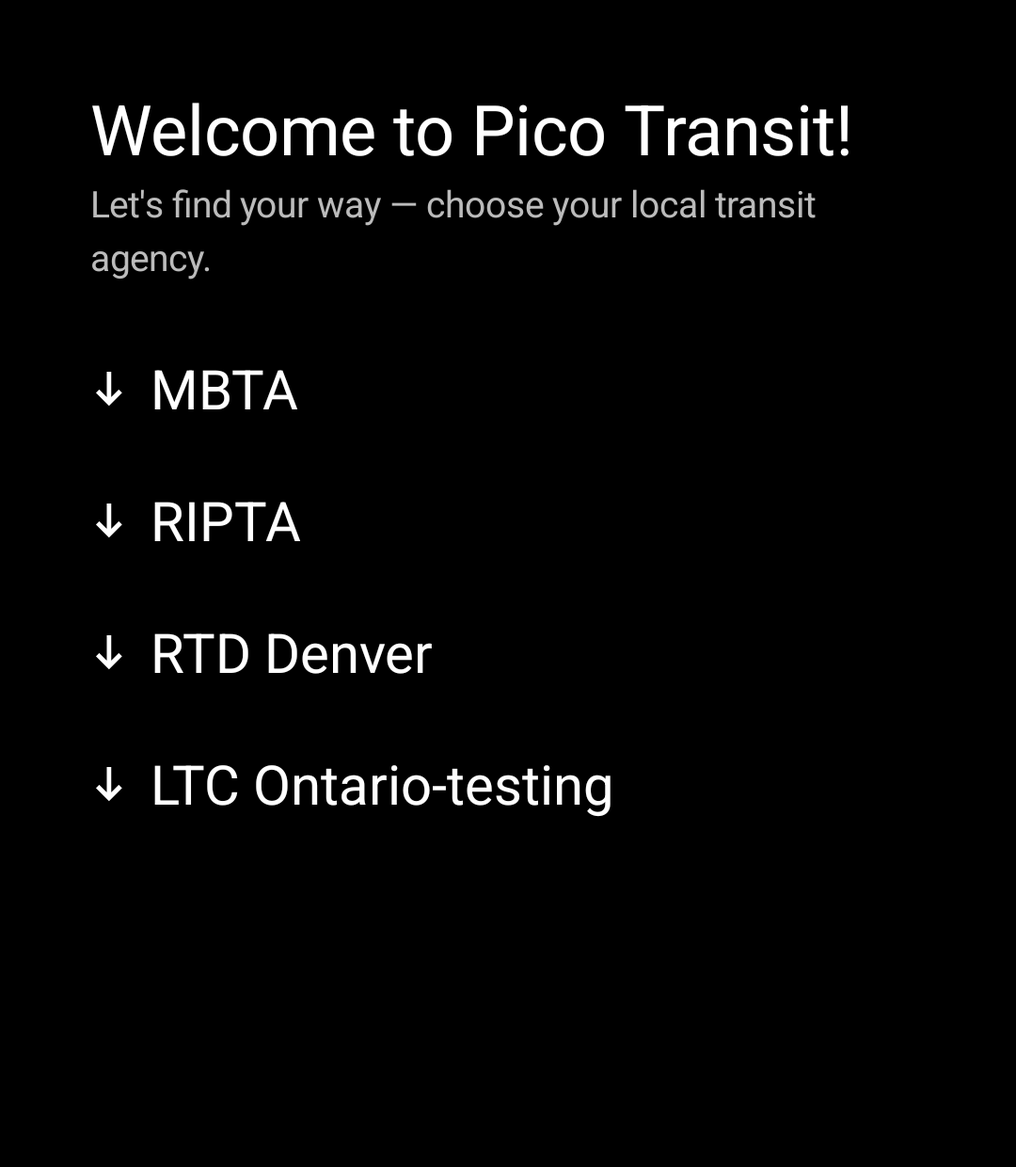
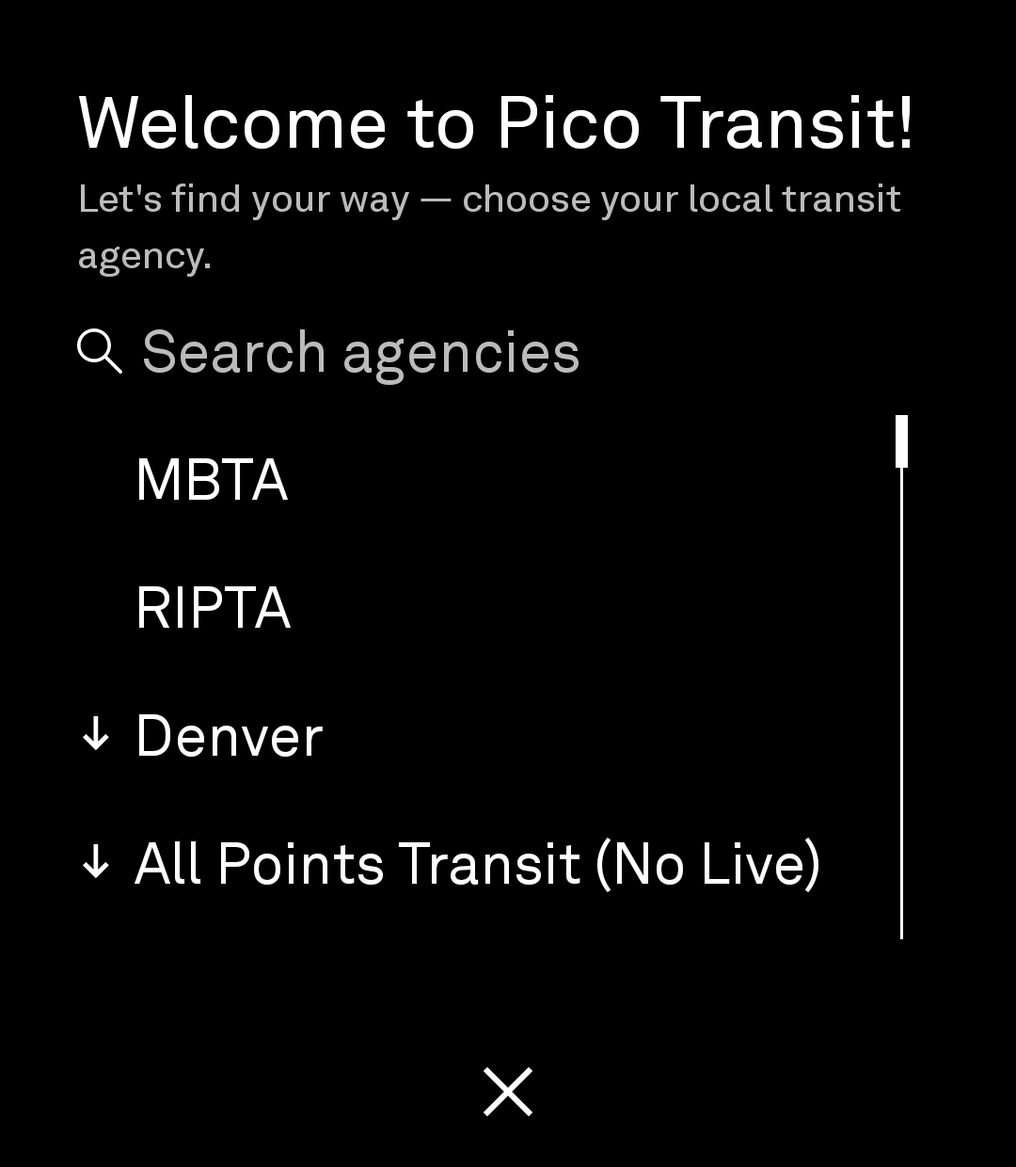
Docs: Puget Sound (110 agencies total) and Explore's GPS status
Updates both READMEs and RELEASE_NOTES.md for the Puget Sound addition and
the GPS-based Explore redesign (marked Testing pending LightOS's production
location trust). Also refreshes several screenshots that had gone stale:
agency picker (now shows live search, not the old 4-agency list), home screen
(STM Montréal instead of another MBTA shot), Settings (new Location section,
indented Transit Agency sub-rows), and Explore itself. Adds 3 new screenshots
(cta.png, union_station.png, unionstation_arrivals.png) to the Merge feed
stations and Home screen trip status sections.

diff --git a/README.md b/README.md
@@ -2,18 +2,22 @@
 
 Pico Transit is a friendly little companion for getting around on public transit. Real schedules, real-time arrivals, live connections at any stop, and a live map that shows exactly where your ride actually is — no ads, no clutter, no infinite scroll. Just "where's my bus," answered nicely. 🚏✨
 
-Right now Pico Transit tracks real-time arrivals for **MBTA**, **RIPTA**, **RTD Denver** (plus Bustang, the state's intercity coach service), **LTC Ontario** (London, Ontario), **STM Montréal**, **CTA**, **NYC Subway**, **LIRR**, **Metro-North**, all 5 NYC bus boroughs plus MTA Bus Company, **Nashville's WeGo Public Transit**, and around 50 SF Bay Area operators (BART, Muni, AC Transit, Caltrain, VTA, and dozens more via 511.org's regional feed, buses/subway/rail/ferry alike) — plus static schedules for **~45 more agencies** with no live tracking yet (about 40 more across Colorado, plus Metra, Pace, and LA Metro). More hopefully hopping aboard down the road. It's built on the [Light SDK](../) for the Light Phone III, so it stays just as calm and un-distracting as the rest of your Light experience.
+Right now Pico Transit tracks real-time arrivals for **MBTA**, **RIPTA**, **RTD Denver** (plus Bustang, the state's intercity coach service), **LTC Ontario** (London, Ontario), **STM Montréal**, **CTA**, **NYC Subway**, **LIRR**, **Metro-North**, all 5 NYC bus boroughs plus MTA Bus Company, **Nashville's WeGo Public Transit**, and around 50 SF Bay Area operators (BART, Muni, AC Transit, Caltrain, VTA, and dozens more via 511.org's regional feed, buses/subway/rail/ferry alike) — **110 agencies in total**, the rest (about 40 across Colorado, 9 across the Puget Sound region, plus Metra, Pace, and LA Metro) with static schedules only, no live tracking yet. More hopefully hopping aboard down the road. It's built on the [Light SDK](../) for the Light Phone III, so it stays just as calm and un-distracting as the rest of your Light experience.
 
 Pico Transit can be used alongside the light phone's directions tool for more context on your commutes, or standalone, covering buses, commuter rail, subway systems, ferries, and transit stations.
 
 ## 🔄 Recent updates
 
+- 🌲 **9 Puget Sound agencies** — static schedules for King County Metro, Sound Transit, Pierce Transit, Community Transit, Kitsap Transit, Intercity Transit, Everett Transit, Washington State Ferries, and the Seattle Center Monorail. Not yet integrated with live tracking, so these are schedule-only for now.
 - 🐛 **Fixed live vehicle tracking drifting or freezing on agencies with gappier feeds** (confirmed live on RIPTA) — when a live feed gives raw GPS but never says which stop a bus is at directly, Pico Transit has to work that out itself; that could pick the wrong stop off a stale signal, let the home screen and Trip Detail disagree with each other about where the bus was, or freeze in place for several minutes once real GPS updates came in more slowly than stops passed by. Home and Trip Detail now share one tracked position and validate that signal against real GPS before trusting it — a fix for any agency in this situation, not just RIPTA. RIPTA specifically also gets a beta feature on top: matching a vehicle's actual GPS against its route's real path instead of just checking distance to each stop one at a time, catching up correctly even when several stops pass between updates.
 - 🎶 **Nashville's WeGo Public Transit, live** — added in honor of Dolly Parton ("And I Will Always Love You"), Music City's own agency joins with full live tracking from day one: real-time arrivals and vehicles right on the map, not just a static schedule.
 - 🚌 **NYC Bus, live** — all 5 boroughs (Bronx, Brooklyn, Manhattan, Queens, Staten Island) plus MTA Bus Company, each its own selectable schedule, all sharing MTA's one combined live feed so real buses show up on the map and in Trip Detail regardless of which borough you picked. Also fixed along the way: "Choose Route" was listing every one of NYC's 306 citywide bus routes for every borough (MTA republishes the same route catalog in all 5 division feeds) — now scoped to only the routes that borough actually runs.
 - 🚇 **NYC Subway, genuinely live** — not an approximation: subway trip_ids pack their own scheduled start time in MTA's encoding, which Pico Transit now decodes and matches back to the real scheduled trip, the same certainty LIRR/Metro-North already had. Fixed along the way: that decoding was only ever being applied to 7 of the 8 line-group feeds, so A/C/E trains never showed live data at all until now. Also faster — all 8 feeds are now merged into one request server-side, instead of the app fetching all 8 itself on every poll.
 - 🏔 **~40 more Colorado agencies** — static schedules for the rest of the state's transit systems listed alongside RTD Denver and Bustang, from Vail Transit to Durango Transit to a handful of GTFS-Flex demand-response services. Not yet integrated with live tracking, so these are schedule-only for now.
 - 🚉 **Merge feed stations** — for any agency that merges a second real GTFS feed into its own, a physically co-located station now shows up once instead of once per feed. RTD Denver's Union Station and Bustang's own gates there are the clearest example — LA Metro's own bus/rail split gets the same treatment.
+
+  ![alt text](docs/screenshots/union_station.png)
+  ![alt text](docs/screenshots/unionstation_arrivals.png)
 - 🗂 **Multiple schedules at once, by region** — three regions now group their agencies together for downloading: **New York City** (NYC Subway, LIRR, Metro-North, and all 6 NYC bus divisions), **Denver** (RTD + Bustang), and the **SF Bay Area** (all 40+ 511-integrated agencies). Pick your primary agency as always; once it's part of one of these regions, Settings' new "Additional Schedules" row lets you toggle on any other schedule in that same region to browse alongside it — tap-and-hold one there to make it your new primary instead, or just board a trip from it directly. The home screen's Schedule button now offers a quick "Choose Schedule" picker whenever more than one of a region's schedules is downloaded, skipping straight to the usual route list when there's only one. Pico Transit's overall agency list keeps growing (see the intro above), so expect these three regions' own rosters — and hopefully new regions entirely — to keep growing too.
 - 🚉 **Stations list opens straight to arrivals now** — tapping a station in the Stations list used to always open its platform map; now it jumps straight to that station's live upcoming arrivals instead (the map's still one tap away from there). Tap-and-hold does the opposite, opening the platform map. On by default, and scoped to the Stations list only — nothing else changes. The Map screen's own top bar now also reminds you what double-tap and tap-and-hold do there, but only for whichever of those two gestures you actually have on in Settings.
 - 🚋 **Select Run, for CTA 'L' trains and MBTA Green Line** — both show up on Trip Detail as a "Closest match," Pico Transit's own best guess at which live vehicle is yours. Select Run lets you confirm or correct that guess yourself: open it to see the whole trip's stop list with each live vehicle shown right on its current stop and tap the one you're on, or use the quick Next/Previous stepper next to "Select Run" to nudge the pick one vehicle at a time. Both are optional in Settings (on by default; the stepper is a nested toggle under it, off by default).
@@ -30,6 +34,7 @@ Pico Transit can be used alongside the light phone's directions tool for more co
 
 ## 🔭 Upcoming developments
 
+- 📍 **Real GPS for Explore, waiting on LightOS's production rollout** — Explore now ranks stops by your actual GPS location instead of a typed address, with a pinned Search to look up a different spot and a Recenter button to jump back to your own. It's built and working, but marked **(Testing)** in Settings: LightOS itself doesn't yet trust non-Light-signed builds for these particular location calls in production, so real GPS ranking only works once Light ships that trust — address search stays available as a fallback in the meantime.
 - 🚏 **More agencies coming soon** — thanks to community support, Pico Transit's agency list keeps growing beyond where it started.
 - ⚠ **Service alerts** — surfacing GTFS-RT's Alerts feed (detours, delays, service changes) isn't wired in yet; today Pico Transit only reads TripUpdates and VehiclePositions. Planned so riders get a heads-up on disruptions, not just a vehicle that's simply running late.
 - 🗺 **Trip shape maps** — Pico Transit can now read a trip's actual route path, not just its stops (currently RIPTA only); drawing that real path on the map is next, so you can see where the road or rails actually go between stops instead of a straight line connecting them.
@@ -65,10 +70,10 @@ Pico Transit can be used alongside the light phone's directions tool for more co
   
   ![alt text](docs/screenshots/Screenshot_20260801_211241.png)
   
-- 📍 **Explore/Leave now** — type where you are (or let Pico Transit take a quick IP-based guess 🛰) and get the closest stops, nearest first — it remembers your last search, so ducking into a stop's arrivals and back doesn't make you search all over again. Need something more precise, search for an address or landmark and find the closest stops in feet to it, then find how soon the next trip will arrive at your stop.
+- 📍 **Explore/Leave now** — opens straight onto the closest stops to your real GPS location, nearest first (marked **(Testing)** — see Upcoming developments below). A pinned Search stays one tap away to look up a different address or landmark instead, and Recenter jumps right back to your own location.
   
+   ![alt text](docs/screenshots/explore_nearby_stops.png)
    ![alt text](docs/screenshots/Screenshot_20260801_214943.png)
-   ![alt text](image.png)
   
 - ⏱ **Live ETAs** — real-time predictions with On Time / Late / Early badges, whenever the agency's live feed is playing along nicely.
   

diff --git a/RELEASE_NOTES.md b/RELEASE_NOTES.md
@@ -19,14 +19,14 @@ A from-scratch companion tool for the Light Phone III: real GTFS schedules, live
 - **NYC Bus, live** — all 5 boroughs (Bronx, Brooklyn, Manhattan, Queens, Staten Island) plus MTA Bus Company, each its own selectable schedule, all sharing MTA's one combined live feed. Fixed along the way: "Choose Route" was listing every one of NYC's 306 citywide bus routes for every borough (MTA republishes the same route catalog in all 5 division feeds) — now scoped to only the routes that borough actually runs.
 - **Nashville's WeGo Public Transit** — added in honor of Dolly Parton ("And I Will Always Love You"), Music City's own agency joined with full live tracking from day one.
 - **LA Metro** — bus and rail merge into one selectable agency the same way Bustang merges into RTD Denver, since LA Metro publishes them as two separate static feeds for the same real operator. No live tracking yet: its only live data today is either Swiftly (a third-party platform gated behind a server-to-server-only API key) or a custom JSON REST API, not standard GTFS-RT.
-- **~45 more agencies, static schedules only** — around 40 more across Colorado (from Vail Transit to Durango Transit to a handful of GTFS-Flex demand-response services) alongside RTD Denver and Bustang, plus Metra and Pace in the Chicago area. Not yet integrated with live tracking.
+- **110 agencies total** — the rest beyond those above are static-schedule-only, not yet integrated with live tracking: around 40 more across Colorado (from Vail Transit to Durango Transit to a handful of GTFS-Flex demand-response services) alongside RTD Denver and Bustang, 9 across the Puget Sound region (King County Metro, Sound Transit, Pierce Transit, Community Transit, Kitsap Transit, Intercity Transit, Everett Transit, Washington State Ferries, and the Seattle Center Monorail), plus Metra and Pace in the Chicago area.
 
 ## 🗺 Core features
 
 - **Onboarding agency picker** — first launch (or switching agencies from Settings) opens a dedicated welcome screen to pick MBTA, RIPTA, RTD Denver, LTC, or STM; Pico Transit downloads that agency's schedule to the phone. Once picked, the home screen shows a ticking clock in the agency's own timezone, its name, and a loading indicator until the schedule's ready — the clock stays visible while a trip's boarded too, alongside the live ETA and progress bar.
 - **Schedules** — browse by Subway, Commuter Rail, or Bus, pick a route/direction/stop, and see every departure for the day. New: tap the header on the Departures screen to plan ahead with tomorrow's schedule instead of today's.
 - **Connections** — tap any stop along a trip to see everything else that comes through there next, across every platform of a station.
-- **Explore/Leave now** — type a location or let the app guess via IP geolocation, and get the closest stops ranked by distance; remembers your last search.
+- **Explore/Leave now** — opens straight onto the closest stops to your real GPS location, nearest first. A pinned Search (always showing the current anchor — magnifying glass plus either "Current Location" or the searched address) switches to ranking against any typed address instead, with "Current Location" always offered back below Search unless location's off in Settings. Marked **(Testing)**: see Under the hood.
 - **Live ETAs** — real-time predictions with On Time / Late / Early badges wherever an agency's live feed supports it.
 - **Live map** — your stop pinned with nearby stops and live vehicles shown with mode-specific icons; a "See Everything" mode drops the per-stop filter to show every live vehicle in view, filterable by stop or mode. The top bar reminds you what double-tap and tap-and-hold do here, but only for whichever of the two you actually have enabled.
 - **Select Run** — for CTA 'L' trains and MBTA Green Line, whose live vehicles show up on Trip Detail as a "Closest match" (an ordinal best guess, not a certain identity) rather than a real trip_id match. Select Run lets a rider confirm or correct that guess directly: a stop-by-stop view of the whole trip with each live vehicle shown on its current stop, tap the one you're on to board it; or a quick Next/Previous stepper next to "Select Run" on Trip Detail to nudge the pick one vehicle at a time. A guardrail keeps either from ever landing on a run that's already passed the rider's own alight stop. Both are independent Settings toggles (list on by default, stepper nested under it and off by default).
@@ -72,12 +72,13 @@ A from-scratch companion tool for the Light Phone III: real GTFS schedules, live
 - **RIPTA's and LTC's realtime feeds now resolve through a redirect to HTTPS** — both are plain-HTTP-only at the origin with no HTTPS equivalent of their own (RIPTA's realtime feed, and LTC's HTTP-only realtime plus its static feed's cert chain rooted at a 2021 Sectigo root some Android trust stores don't carry yet). Routing every agency's feed URL through one redirect layer resolved both problems at once, so the `:netconfig` cleartext-exception module and the code-only `BundledRootTrustAnchor`/`GtfsTrustAnchors.kt` workaround are both gone — no agency's HTTP client needs special-casing anymore.
 - Local **Light Keyboard UI** dependency (previously pulled from JitPack) folded in as a proper subtree.
 - **BouncyCastle** (`bcprov-jdk18on`) added to the dependency allow-list to support agency-specific crypto needs.
-- No device GPS is used anywhere — nearby-stop and location search run entirely on Nominatim/OpenStreetMap and IP-based geolocation, since the SDK doesn't expose GPS to tools.
+- **Explore now uses the Light Phone's real GPS**, via the Light SDK's new location APIs (`GetCurrentLocation`/`RequestLocationUpdates`, merged in from upstream `light-sdk`) — replacing the old IP-geolocation-only approach entirely. It's marked (Testing) because LightOS itself doesn't yet trust non-Light-signed builds for these specific calls in production: a dev-signed build gets every location call rejected server-side (confirmed via on-device logcat: `Rejected ... from untrusted uid`), so real GPS ranking only works once that trust lands on real devices. Address search (Nominatim/OpenStreetMap) stays available as a pinned fallback regardless. Tool code has no path around this to a raw Android location API either way — `LocalContext`/`Activity` access is a lint error in this SDK, and there's no Google Play Services dependency in the allow-list — so `LightServiceMethod.GetCurrentLocation` is the only possible route to GPS for a tool.
 - Boarding a trip is a saved reference, not a background tracker — no live-feed polling happens unless Trip Detail or the home screen is actually open and visible.
 - Pulled in upstream `light-sdk`'s latest: an NFC reader API, detached audio playback, Light Keyboard bumped to v0.0.18, and a `zxing`/`sol4k` dependency-allowlist addition — none of it wired into Pico Transit yet, just picked up by the merge.
 - **Comment and documentation audit** — every code comment across the tool module was reviewed for accuracy against current source and trimmed to durable engineering rationale rather than session-specific narration (dated verification claims, specific sample counts, explanations already covered elsewhere in the codebase). Caught several comments that had drifted from what the code actually does after later feature work (the 511 rollout, CTA Bus Tracker) changed the code underneath them.
 - **AC Transit's static feed URL had an untraceable token embedded in it** — no record of where it came from, never supplied by the project owner. Rather than keep shipping an unverified credential in client source, routed it through the shared 511 proxy instead, matching how the rest of the SF Bay Area group already works.
 - **NYC Subway's realtime is now one request instead of eight** — MTA itself splits subway realtime across 8 line-group feeds (ACE, BDFM, G, JZ, NQRW, L, numbered lines, SIR) rather than one combined feed the way LIRR/Metro-North publish theirs. `pico-transit-proxy` now fetches and merges all 8 server-side into one combined response, cached and shared across every rider the same way the 511 regional feed already is — the app itself just sees one realtime URL, like any other agency. Before this, the app fetched all 8 itself on every poll, and doing so sequentially added enough real network latency that a rider tapping into Trip Detail right after seeing a train on the map could find it had already reached the next stop by the time the screen loaded.
+- **4 of the 9 Puget Sound agencies route through `pico-transit-proxy`** — King County Metro, Sound Transit, Pierce Transit, and Community Transit are all hosted on soundtransit.org, whose cert chain terminates at a root not yet present in the device trust store, the same problem LTC's static feed had. Routed through the proxy's own per-agency static route rather than fetched directly, same fix already proven out for LTC; the other 5 Puget Sound agencies (hosted on `gtfs.sound.obaweb.org`, a standard Amazon root) fetch directly like every other non-511 agency.
 - **CARTO map tiles now require an API key** — like every other agency key in this app, it's a worker-side secret injected server-side by `pico-transit-proxy`, never shipped in the app; the app never talks to CARTO directly.
 - **Cross-agency realtime fetching, for a region's multiple selected schedules** — when a rider has more than one agency from the same region active at once (e.g. NYC Subway as primary plus a bus borough as an additional schedule), fetching each one's realtime concurrently rather than one after another is a `RegionalGroup`-scoped concern client-side, deliberately not something the worker merges server-side the way NYC Subway's own line-group feeds are — a cross-agency merge would mean fetching feed combinations most riders never select, where NYC Subway's own 8 feeds are always the same fixed set for everyone. Built as reusable infrastructure; not yet wired into a specific screen.
 

diff --git a/tool/README.md b/tool/README.md
@@ -2,7 +2,7 @@
 
 Pico Transit is a friendly little companion for getting around on public transit. Real schedules, real-time arrivals, live connections at any stop, and a live map that shows exactly where your ride actually is — no ads, no clutter, no infinite scroll. Just "when's my bus," answered nicely. 🚏✨
 
-Right now Pico Transit knows its way around **MBTA**, **RIPTA**, **RTD Denver** (plus Bustang, Colorado's statewide coach service), **LTC Ontario**, **STM Montréal**, **CTA**, **Metra**, **Pace**, **NYC Subway**, **LIRR**, **Metro-North**, **LA Metro**, and around 50 SF Bay Area operators (BART, Muni, AC Transit, Caltrain, VTA, and dozens more via 511.org's regional feed) — with more agencies hopefully hopping aboard down the road. It's built on the [Light SDK](../) for the Light Phone III, so it stays just as calm and un-distracting as the rest of your Light experience.
+Right now Pico Transit knows its way around **110 agencies** in total: **MBTA**, **RIPTA**, **RTD Denver** (plus Bustang, Colorado's statewide coach service), **LTC Ontario**, **STM Montréal**, **CTA**, **Metra**, **Pace**, **NYC Subway**, **LIRR**, **Metro-North**, **LA Metro**, around 50 SF Bay Area operators (BART, Muni, AC Transit, Caltrain, VTA, and dozens more via 511.org's regional feed), and 9 Puget Sound operators (King County Metro, Sound Transit, Pierce Transit, Community Transit, Kitsap Transit, Intercity Transit, Everett Transit, Washington State Ferries, and the Seattle Center Monorail) among them — with more agencies hopefully hopping aboard down the road. It's built on the [Light SDK](../) for the Light Phone III, so it stays just as calm and un-distracting as the rest of your Light experience.
 
 ## 🗺 What can it do?
 
@@ -10,7 +10,7 @@ Right now Pico Transit knows its way around **MBTA**, **RIPTA**, **RTD Denver** 
 - ⚙ **Settings** — switch agencies any time (reopens the same welcome picker), light/dark map tiles, and on/off toggles (tap-and-hold a stop to jump to its arrivals — the same gesture also jumps from a Station map's own name to the main map centered on it; double-tap a station to zoom into its platforms; track tapped-open stops' own vehicles on the map; the home screen's trip progress bar; the home screen's daily message; "See Everything," a map mode covered below; and "Only download over Wi-Fi," on by default, so a schedule refresh never surprises you with cellular data usage). A "Clear schedule cache" action frees up space by deleting every agency's downloaded schedule, then re-downloads your current one right away.
 - 📅 **Schedules** — browse by Subway 🚇, Commuter Rail 🚆, or Bus 🚌, pick a route, a direction, and a stop, and see every departure today. New: tap the header on the Departures screen to plan ahead with tomorrow's schedule instead.
 - 🔗 **Connections** — tap any stop along a trip to see what else comes through there next, across every platform of a station, not just the one your trip happened to use. Great for planning a transfer on the fly.
-- 📍 **Explore/Leave now** — type where you are (or let Pico Transit take a quick IP-based guess 🛰) and get the closest stops, nearest first — it remembers your last search, so ducking into a stop's arrivals and back doesn't make you search all over again.
+- 📍 **Explore/Leave now** — lands you straight on the closest stops to where you actually are, nearest first, via the Light Phone's own GPS (see the nerdy note below on why this is marked **(Testing)** for now). A pinned Search stays one tap away any time you'd rather look up a different address instead, and a Recenter button snaps you right back to your own location.
 - ⏱ **Live ETAs** — real-time predictions with On Time / Late / Early badges, whenever the agency's live feed is playing along nicely.
 - 🗺 **Map** — your stop, pinned on a live map, with nearby stops you can tap to reveal their names. Live vehicles show up right where they actually are, with a matching icon for their mode (subway/light rail, commuter rail, bus, ferry). Flip on "See Everything" (Settings) to drop the usual "just this stop's own vehicles" filter and plot every live vehicle in view instead, labeled with just its route until you tap it; narrow it back down by tapping a stop ("Filter by stop" — tags each vehicle TO/FROM/AT that stop) or by mode (Bus/Subway/Commuter Rail).
 - 👆 **Gestures** — tap and hold a stop or station's name — on the Map, in Schedules while picking where to board, or in the Stations list — to jump straight to its live upcoming arrivals instead of whatever a plain tap would open there. On the Map itself, double-tap a multi-platform station to zoom into a view of just its own platforms, then double-tap its name again to zoom back out to the main map and see what else is nearby. On Trip Detail, tap and hold works a little differently depending on whether that trip's boarded: not boarded, a plain tap opens a stop's connections and tap-and-hold jumps to its live arrivals instead; boarded, a plain tap sets (or clears) that stop as where you're getting off, and tap-and-hold still opens its connections.
@@ -27,7 +27,7 @@ All three modes help you get to the same place: trip details, ready to board. On
 Once boarded, tap the play button (top-right corner) anytime to jump back to your active trip's details — even while you're browsing for your next boarding. To stop tracking, return to trip details via the play indicator, then tap the stop button. If you open a different trip while already tracking one and tap play there, a small X appears next to the play indicator — that's your signal you're about to cancel your current trip and switch to following this new one instead.
 
 - 📅 **Schedule** — Start here to plan ahead. Pick a route, direction, stop, and departure time to lock in your trip.
-- 📍 **Explore** — Start by entering a known location — search by address, landmark, or commercial place. Nominatim translates that into a location and finds the closest stops nearby. Tap a stop to see upcoming arrivals and ETAs. Tap any arrival to view trip details.
+- 📍 **Explore** — Opens straight onto the closest stops to your current GPS location. Tap Search any time to look up a different address, landmark, or commercial place instead (Nominatim translates that into a location and re-ranks stops around it), or tap Recenter to jump back to your own location. Tap a stop to see upcoming arrivals and ETAs. Tap any arrival to view trip details.
 - 🚉 **Station** — For agencies with transfer stations, start by selecting your station. Tap any platform or gate on the map to see its name. Tap and hold a platform or gate to see all upcoming arrivals there, or tap and hold the station name above the map to jump to the main map centered on that station. Select a trip to view its details.
 
 ## 🛠 Building & running it
@@ -61,7 +61,7 @@ That's it — happy transit-ing! 🚏🚌🚆
 ## 🧪 A couple of nerdy notes
 
 - **RIPTA's and LTC's live feeds are HTTP-only at the origin** (no HTTPS). Both now resolve through a redirect to HTTPS, so the app itself never connects over cleartext, and the `:netconfig` module's cleartext exception is no longer needed.
-- **No device GPS is used anywhere** — the SDK doesn't expose it to tools yet. Nearby-stop and location search are powered by Nominatim (OpenStreetMap) and IP-based geolocation instead. Be kind to their free APIs! 🙏
+- **Explore now uses the Light Phone's real GPS** (Settings → Location, on by default) via the Light SDK's new location APIs (`GetCurrentLocation`/`RequestLocationUpdates`), ranking stops by actual distance instead of a typed address. It's marked **(Testing)** because LightOS itself doesn't yet trust non-Light-signed builds for these specific calls in production — right now a dev-signed build gets every location call rejected server-side (`Rejected ... from untrusted uid`), so GPS ranking only works once that trust lands on real devices. Address search (Nominatim, OpenStreetMap) stays available as a pinned fallback either way — be kind to their free API! 🙏
 - **Stations are deduplicated using GTFS's `parent_station`** — a big station with several platforms (subway entrances, commuter rail tracks, etc.) shows up as one marker/entry, not one per platform, while still resolving to the right platform's `stop_id` under the hood for schedule lookups. Only real platforms and boarding areas count as "member platforms" for this — GTFS also links entrances, elevators, and escalator nodes to the same parent station, and those are filtered out so a big hub's map isn't cluttered with dozens of non-boardable points.
 - **Boarding a trip is a saved reference, not a background tracker** — Pico Transit never polls a live feed while the app itself isn't open. "You've reached your stop" detection only runs while Trip Detail or the home screen is actually visible and polling, the same way every other bit of live tracking in the app works.
 - **Commuter rail track assignments come from MBTA's V3 API, not GTFS-RT** — GTFS-RT never publishes which specific track a commuter rail trip will use, and MBTA's own dispatch system usually doesn't decide until 10-15 minutes before departure. Pico Transit polls the V3 API (`api-v3.mbta.com`) for this and for commuter rail's own live vehicle positions, falling back to the standard GTFS-RT feed if a trip has no V3 match yet. CTA's own Bus Tracker API is wired the same way for buses, matching a live vehicle back to a scheduled trip by its route + scheduled departure time rather than a GTFS-RT trip_id.
